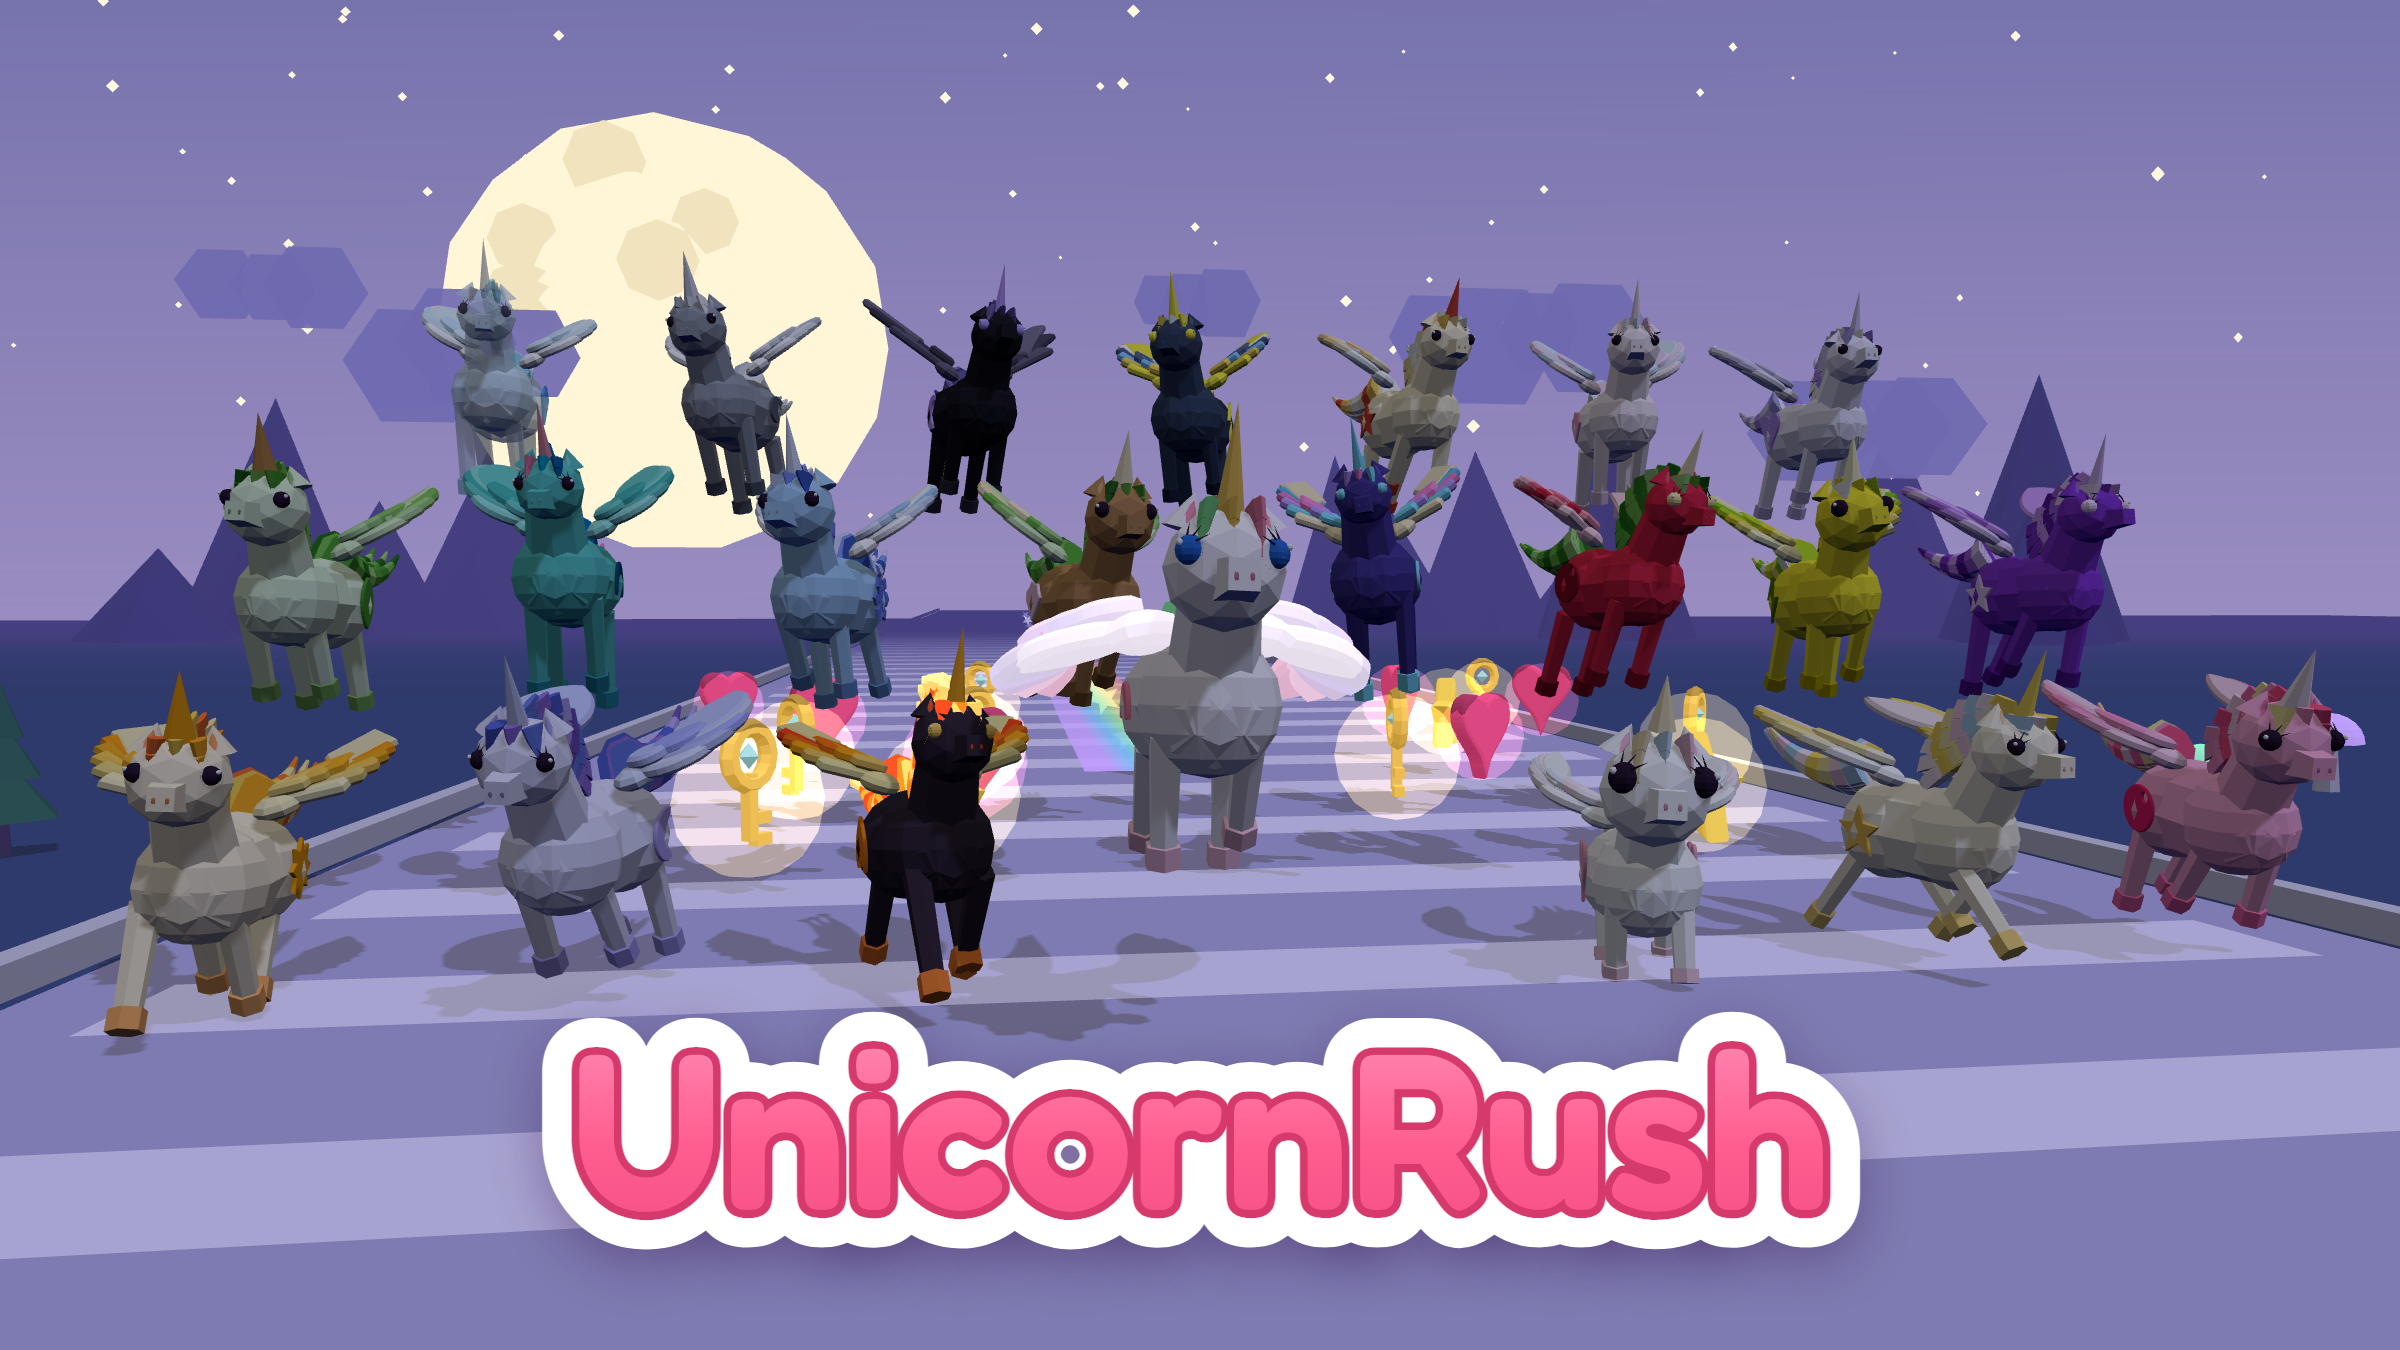
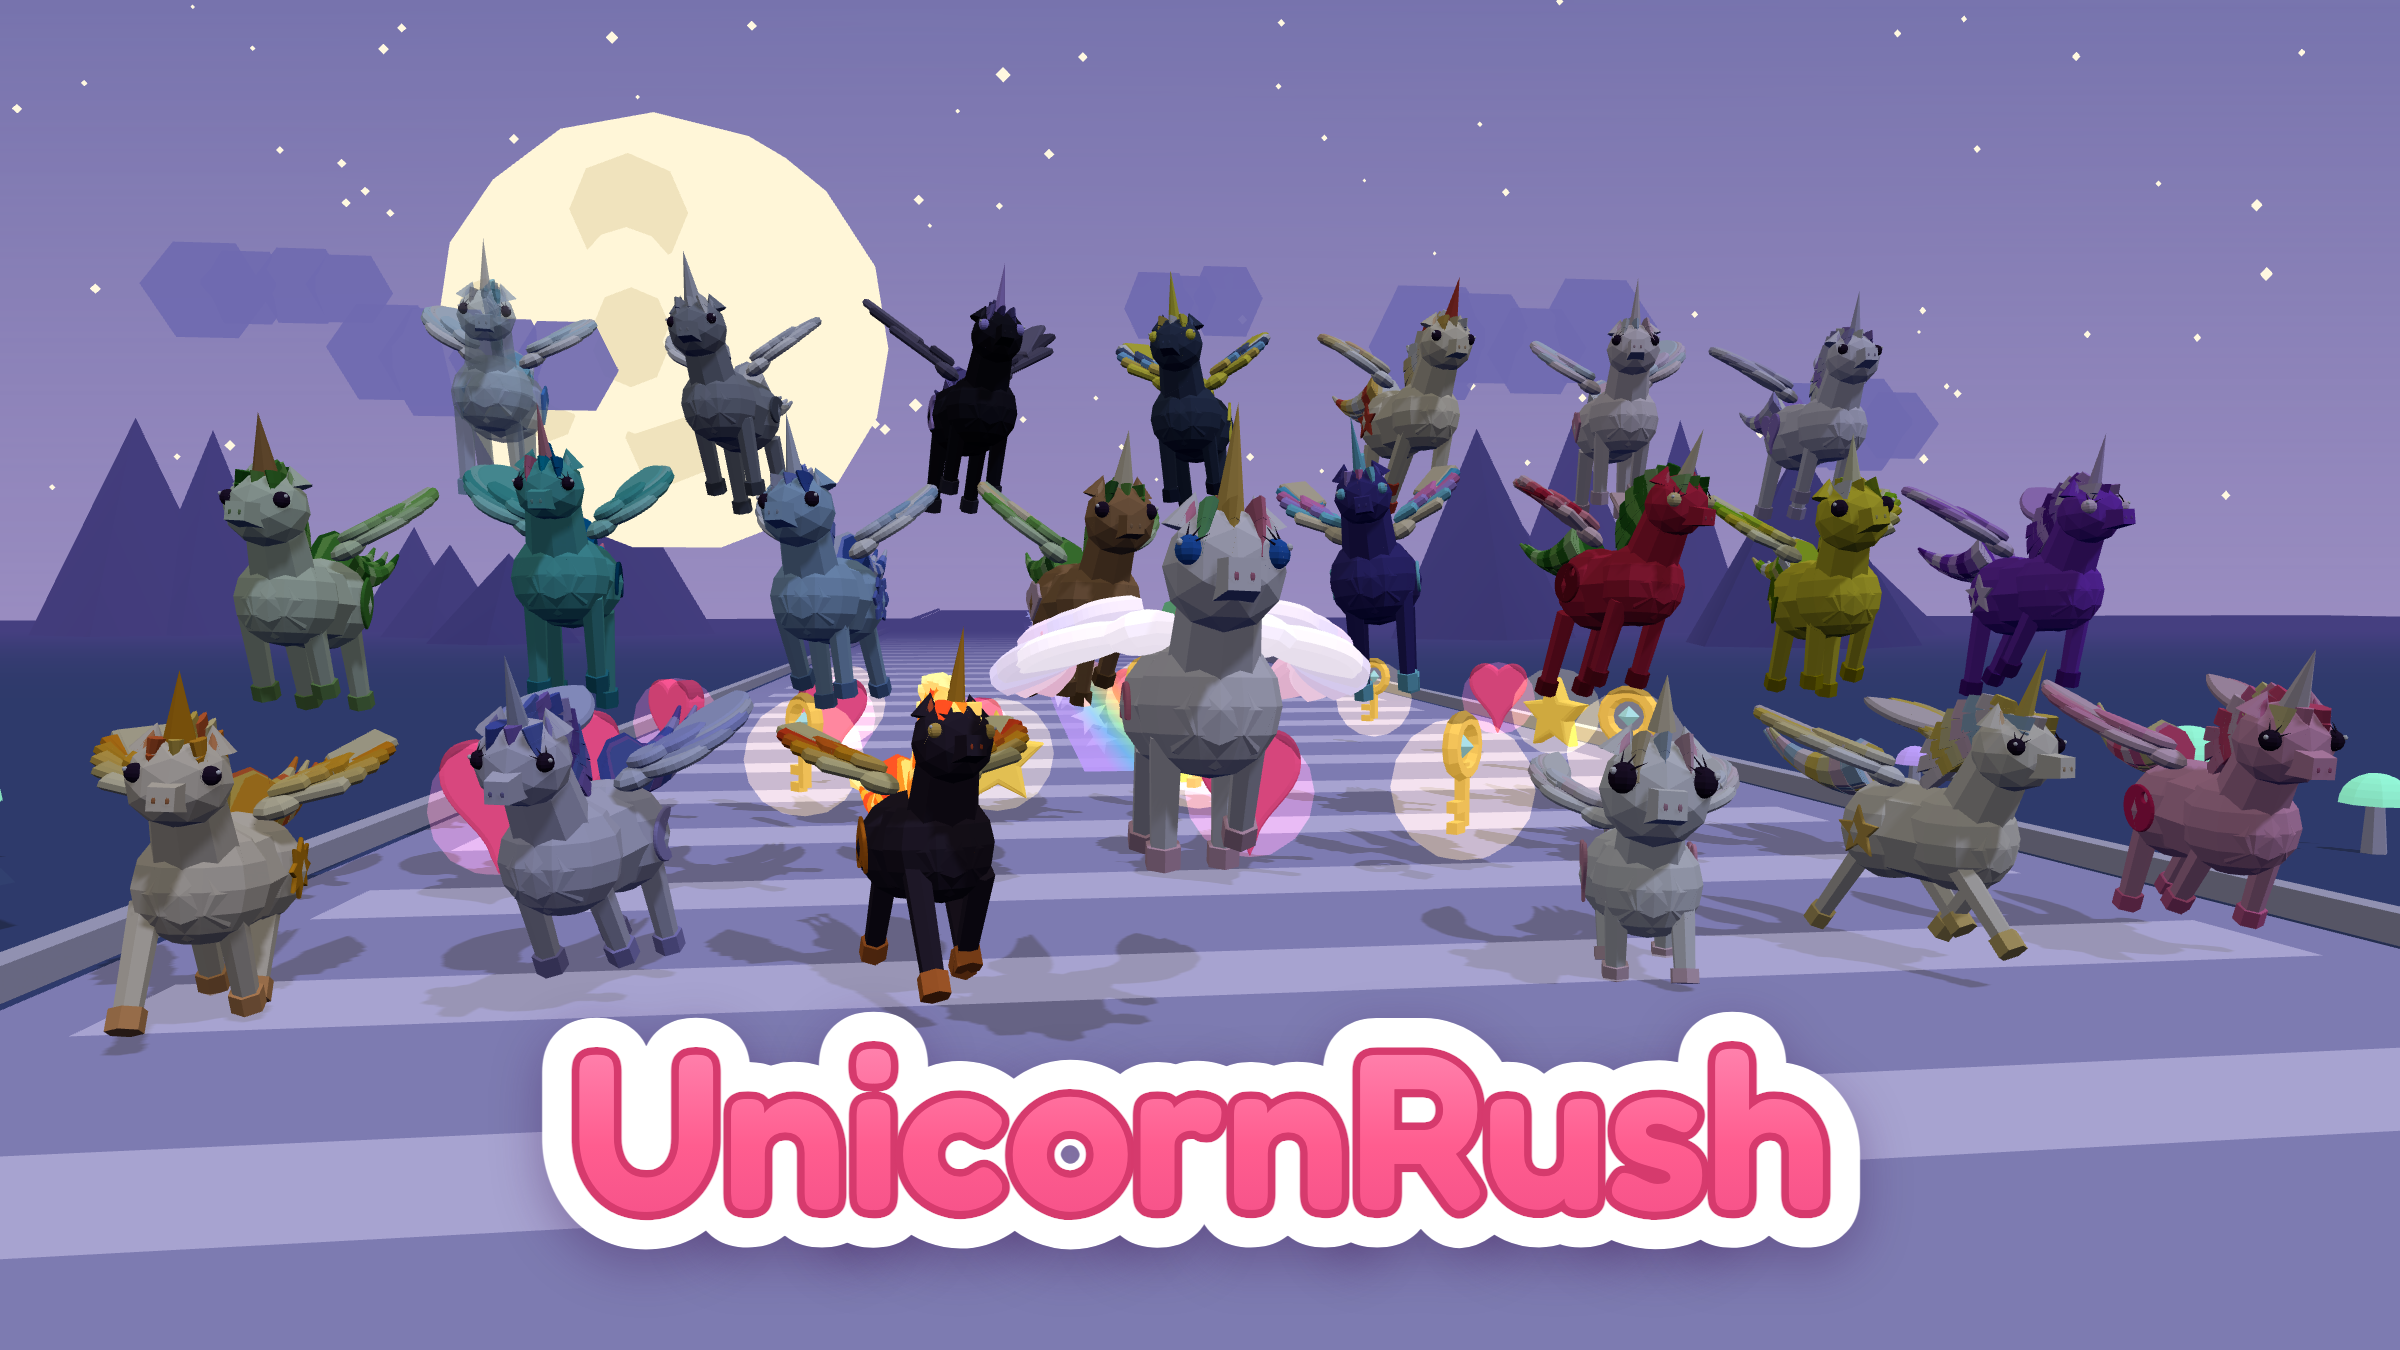
Anúncios refeitos com o modelo atual, e um post para o LinkedIn
As imagens ainda mostravam os unicórnios sem cílios e com o olho escuro —
elas são gravações do modelo, então envelhecem a cada mudança nele.

O post fica em docs/, em inglês, destacando o que o jogo tem de menos óbvio:
tudo se conquista correndo, a história tem um fim que só abre com os 21
amigos livres, a ficha se lê em voz alta (e a voz é escolhida, não a
primeira que aparece), dois idiomas e funcionamento offline.

diff --git a/sw.js b/sw.js
@@ -5,7 +5,7 @@
 //
 // O nome do cache carrega a versão do jogo: ao subi-la (com `npm run bump`),
 // o cache velho é apagado sozinho no aparelho de quem já jogou.
-const VERSION = 'unicornrush-v0.27.2';
+const VERSION = 'unicornrush-v0.27.3';
 
 const SHELL = [
   './',

diff --git a/src/game/version.js b/src/game/version.js
@@ -7,4 +7,4 @@
 // Para subir a versão use `npm run bump` — ele mexe nos três lugares de uma
 // vez (aqui, no `package.json` e no `sw.js`), que é o que impede de um deles
 // ficar para trás.
-export const VERSION = '0.27.2';
+export const VERSION = '0.27.3';

diff --git a/docs/post-linkedin.md b/docs/post-linkedin.md
@@ -1,0 +1,39 @@
+# Post para o LinkedIn
+
+Em inglês, para publicar com a imagem `assets/anuncio/unicornrush-campo.png`
+(ou a noturna, `unicornrush-noite.png`).
+
+---
+
+I built a 3D game for my kids. Then they started finding the bugs I couldn't.
+
+**UnicornRush** is a running game for children aged 3 to 7. Twenty-two
+unicorns, fifteen tracks, and no 3D assets anywhere — every unicorn, tree,
+cloud and lollipop is drawn in code with three.js.
+
+A few things I'm glad I got right:
+
+🔑 **Everything is earned by running.** Magic keys are the only currency.
+Every unicorn and every track is unlocked by playing. Nothing is bought.
+
+📖 **There's a story, and it has an ending.** An illustrated storybook
+explains why Uni is running: her friends are locked behind doors. The last
+two pages only appear the day all 21 friends are free — and they answer who
+locked them away, and why. (He wasn't being cruel. He was invisible.)
+
+🔊 **The game reads itself out loud.** Most of its players can't read yet.
+Every unicorn and track card has a listen button, and instead of grabbing the
+first voice it finds, the game ranks the ones installed on the device and
+picks the best — the default Portuguese voice is usually the worst one there.
+
+🌍 **Two languages**, chosen on first launch: Portuguese and English. 376
+phrases, including every unicorn's name, personality and backstory.
+
+📴 **It works offline.** A PWA you install once and that runs on a plane, in
+the car, in a waiting room.
+
+The most useful thing wasn't a framework. It was watching a 7-year-old play
+it well, a 3-year-old play the obstacle-free mode, and both of them find, in
+minutes, the things I'd been guessing about for weeks.
+
+#gamedev #threejs #webdev #pwa #kidstech
